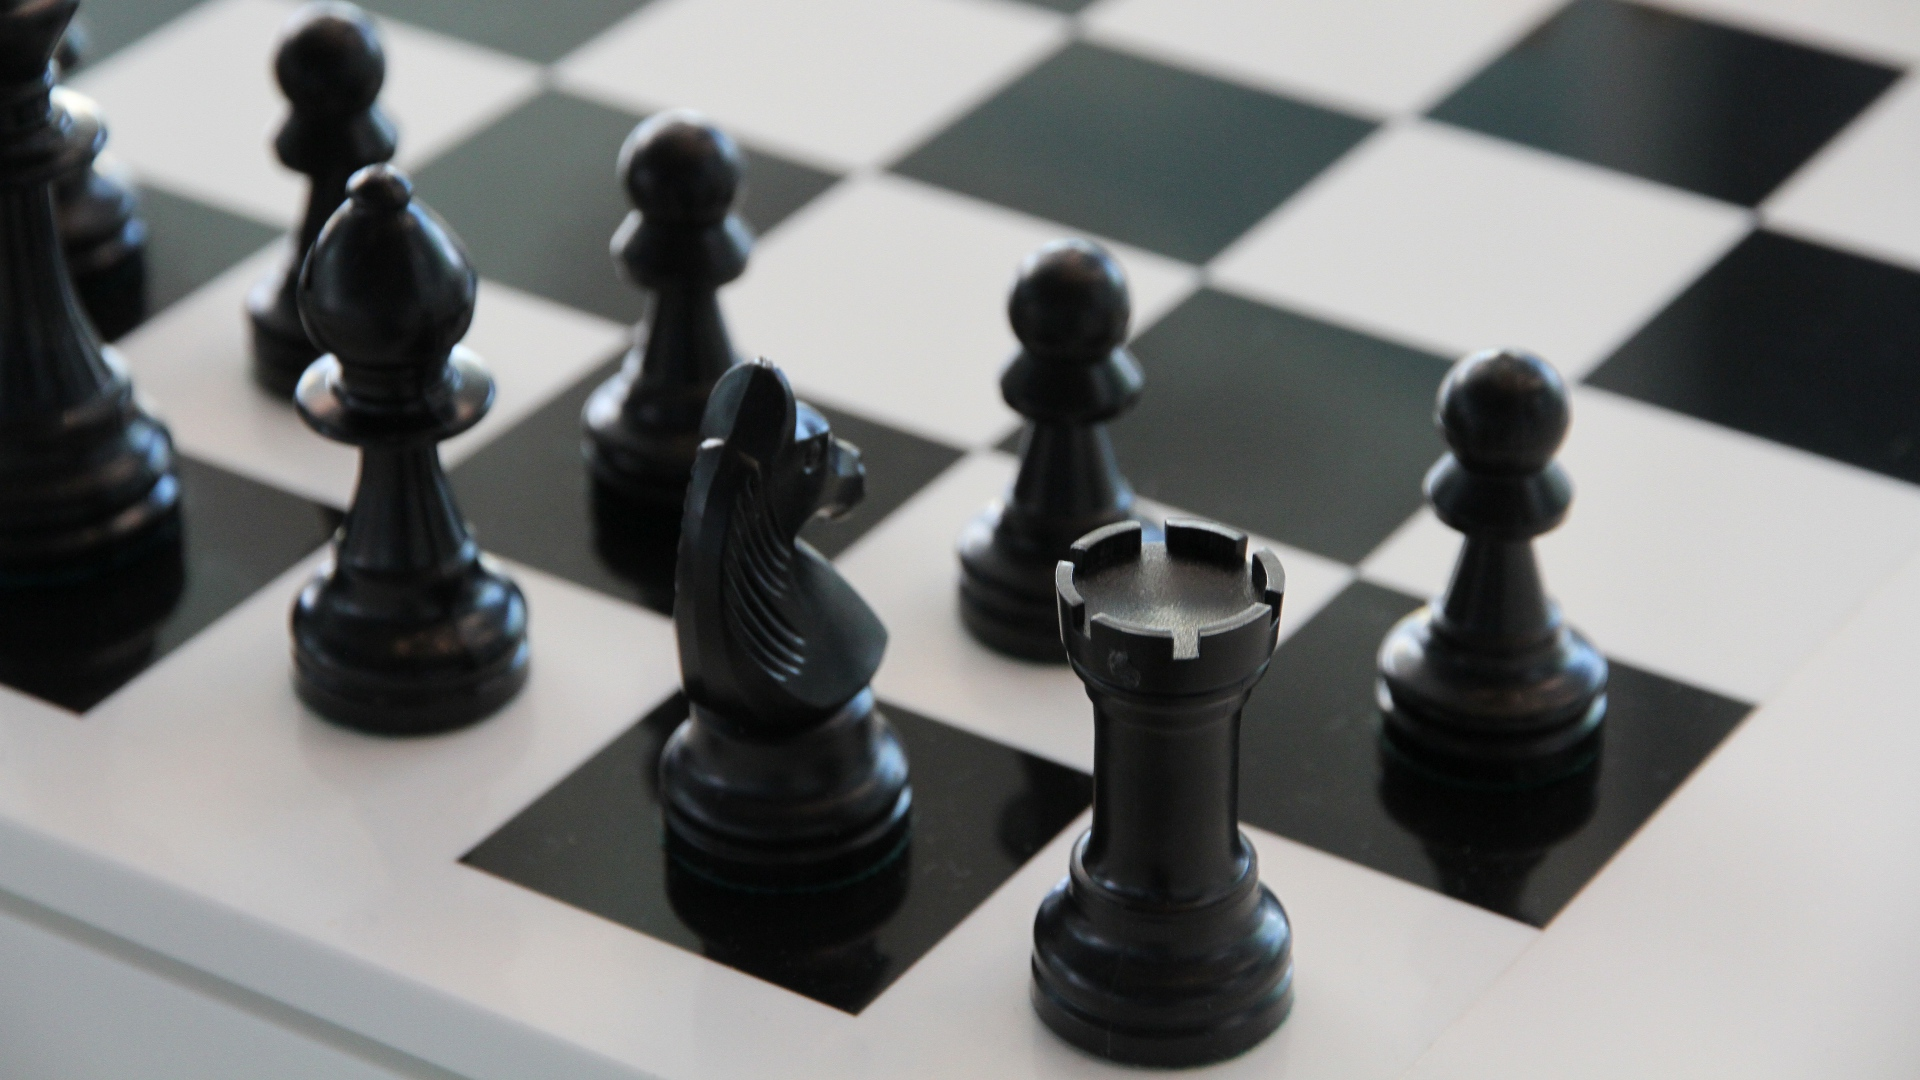
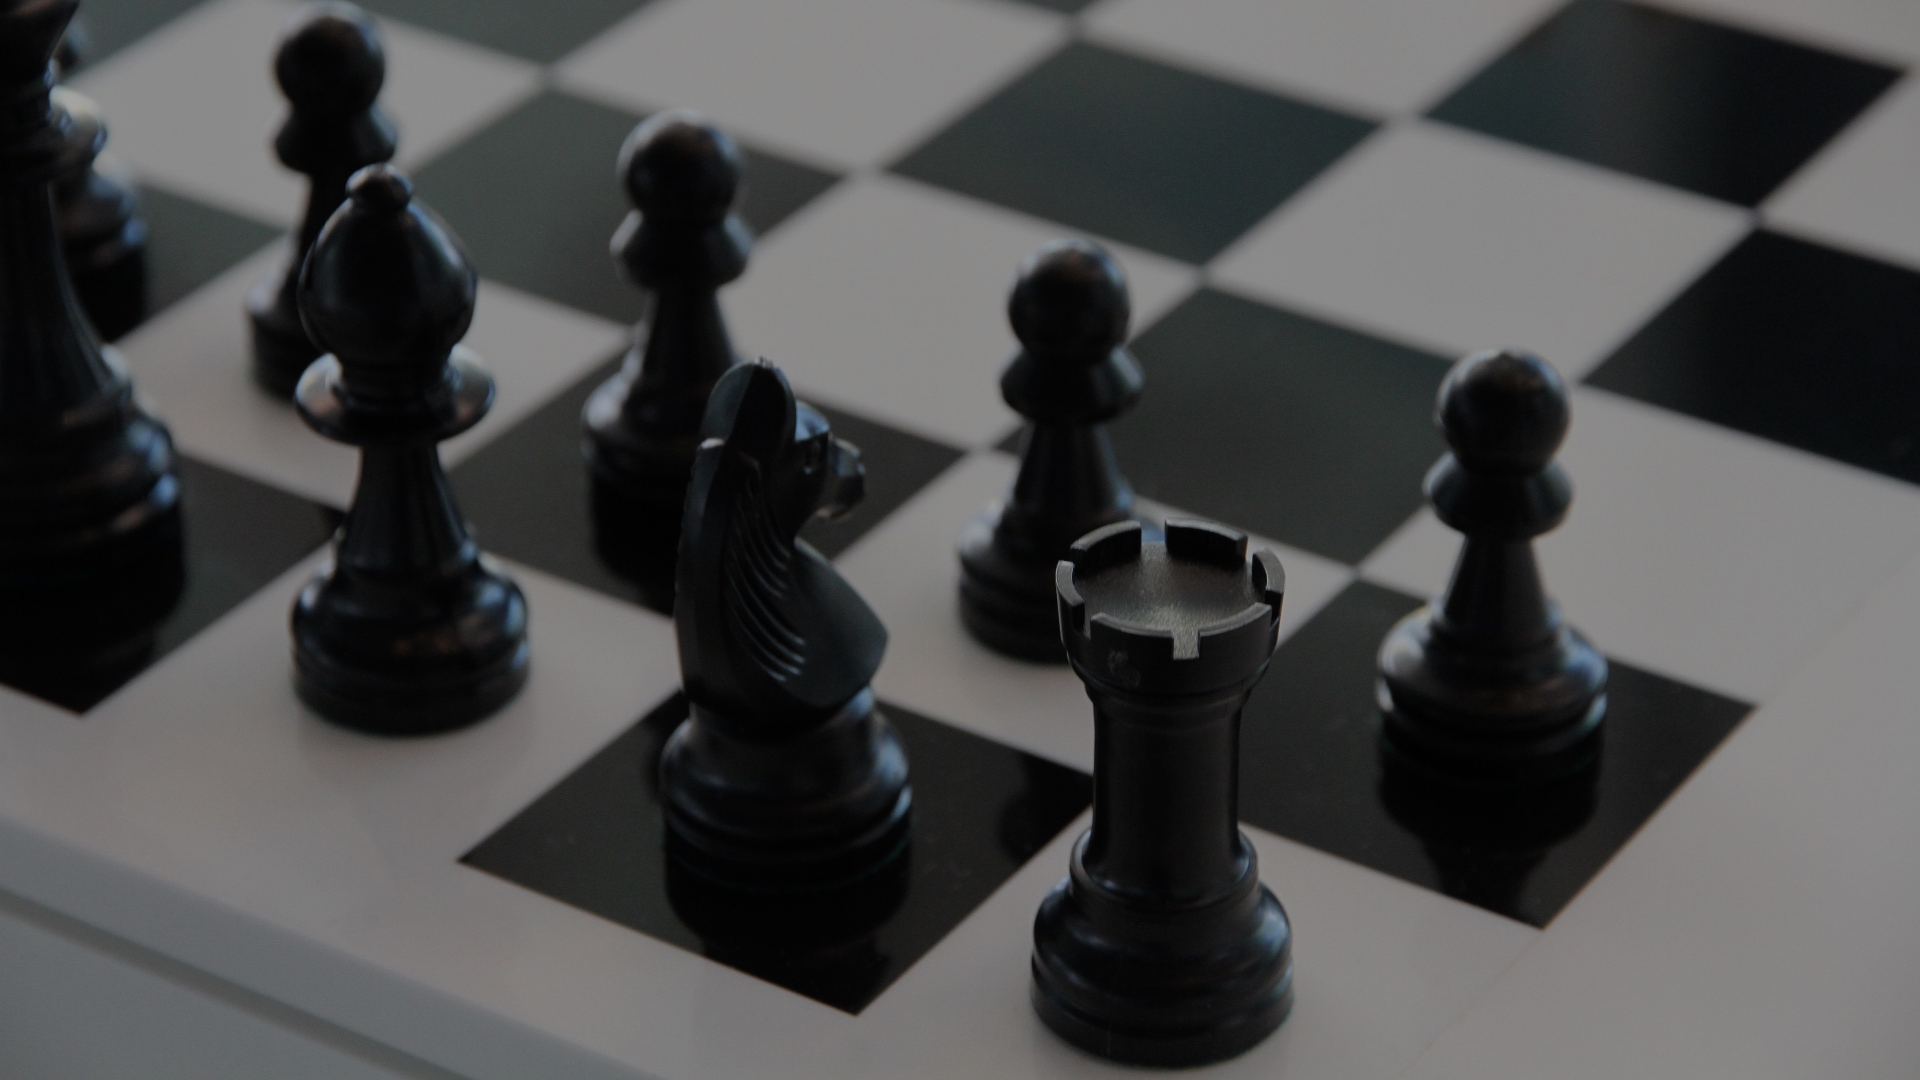
Add Twitter authentication

diff --git a/app/assets/stylesheets/panelo.scss b/app/assets/stylesheets/panelo.scss
@@ -3,9 +3,8 @@
 }
 
 body {
-  background-image: image_url('soccer.jpg');
+  background-image: image_url('chessboard.jpg');
   background-repeat: none;
-  opacity: 60%;
 }
 
 .input-group {

diff --git a/app/models/user.rb b/app/models/user.rb
@@ -4,5 +4,22 @@ class User < ActiveRecord::Base
   devise :database_authenticatable, :registerable,
          :recoverable, :rememberable, :trackable, :validatable
 
+  devise :omniauthable, :omniauth_providers => [:twitter]
+
   has_many :games
+
+  def self.from_omniauth(auth)
+    password = SecureRandom.hex(10)
+    if user = User.find_by(provider: auth.provider, uid: auth.uid)
+      return user 
+    else
+      User.create do |u|
+        u.provider = auth.provider
+        u.uid = auth.uid
+        u.email = "#{auth.info.nickname}@twitter.com"
+        u.password = password
+        u.password_confirmation = password
+      end
+    end
+  end
 end

diff --git a/db/schema.rb b/db/schema.rb
@@ -11,7 +11,7 @@
 #
 # It's strongly recommended that you check this file into your version control system.
 
-ActiveRecord::Schema.define(version: 20160708002345) do
+ActiveRecord::Schema.define(version: 20160817235736) do
 
   # These are extensions that must be enabled in order to support this database
   enable_extension "plpgsql"
@@ -53,6 +53,8 @@ ActiveRecord::Schema.define(version: 20160708002345) do
     t.datetime "last_sign_in_at"
     t.inet     "current_sign_in_ip"
     t.inet     "last_sign_in_ip"
+    t.string   "provider"
+    t.string   "uid"
   end
 
   add_index "users", ["email"], name: "index_users_on_email", unique: true, using: :btree

diff --git a/app/controllers/users/omniauth_callbacks_controller.rb b/app/controllers/users/omniauth_callbacks_controller.rb
@@ -1,0 +1,13 @@
+class Users::OmniauthCallbacksController < Devise::OmniauthCallbacksController
+  def twitter
+      # You need to implement the method below in your model (e.g. app/models/user.rb)
+      @user = User.from_omniauth(request.env["omniauth.auth"])
+
+      if @user.persisted?
+        sign_in_and_redirect @user, :event => :authentication #this will throw if @user is not activated
+        set_flash_message(:notice, :success, :kind => "Twitter") if is_navigational_format?
+      else
+        redirect_to new_user_registration_url
+      end
+    end
+end

diff --git a/config/initializers/devise.rb b/config/initializers/devise.rb
@@ -241,6 +241,12 @@ Devise.setup do |config|
   # ==> OmniAuth
   # Add a new OmniAuth provider. Check the wiki for more information on setting
   # up on your models and hooks.
+  config.omniauth :twitter, 
+    Rails.application.secrets.TWITTER_API_KEY, 
+    Rails.application.secrets.TWITTER_API_SECRET
+
+#   API_KEY: "anZaW6aGvJWUNlbLrPHuFNVl0"
+# API_SECRET: "HRVreG2nA41cGDB73H7idy9vVIpUZe80oVO5xU7fAvshNAvjLk"
   # config.omniauth :github, 'APP_ID', 'APP_SECRET', scope: 'user,public_repo'
 
   # ==> Warden configuration

diff --git a/app/controllers/application_controller.rb b/app/controllers/application_controller.rb
@@ -2,4 +2,8 @@ class ApplicationController < ActionController::Base
   # Prevent CSRF attacks by raising an exception.
   # For APIs, you may want to use :null_session instead.
   protect_from_forgery with: :exception
+
+  def after_sign_in_path_for(resource)
+    contests_path
+  end
 end

diff --git a/config/routes.rb b/config/routes.rb
@@ -1,5 +1,6 @@
 Rails.application.routes.draw do
-  devise_for :users
+  devise_for :users, :controllers => { :omniauth_callbacks => "users/omniauth_callbacks" }
+
   if Rails.env.development?
     mount LetterOpenerWeb::Engine, at: "/letter_opener"
   end

diff --git a/db/migrate/20160817235736_add_omniauth_to_users.rb b/db/migrate/20160817235736_add_omniauth_to_users.rb
@@ -1,0 +1,6 @@
+class AddOmniauthToUsers < ActiveRecord::Migration
+  def change
+    add_column :users, :provider, :string
+    add_column :users, :uid, :string
+  end
+end

diff --git a/config/initializers/omniauth.rb b/config/initializers/omniauth.rb
@@ -1,0 +1,2 @@
+Rails.application.config.middleware.use OmniAuth::Builder do
+end
